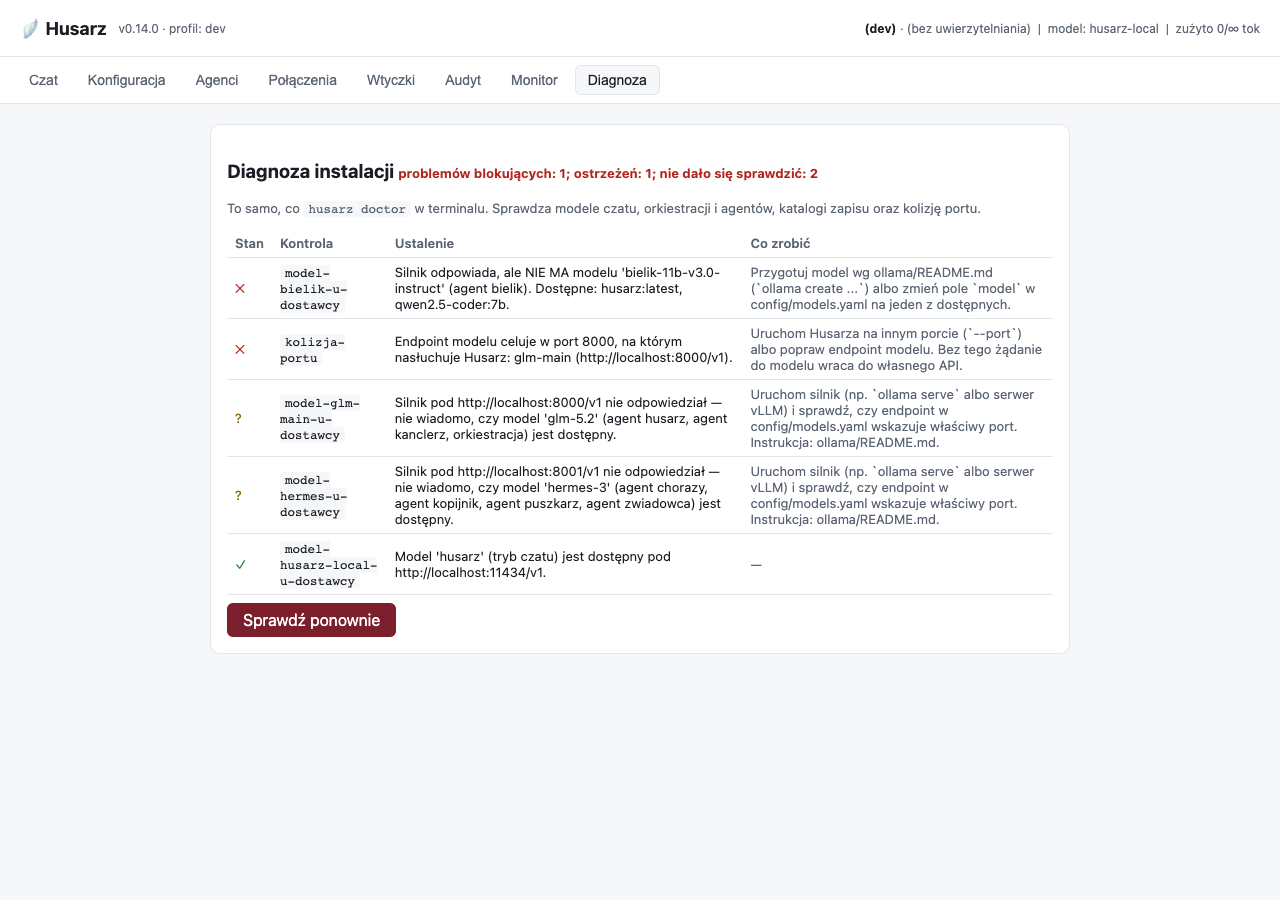
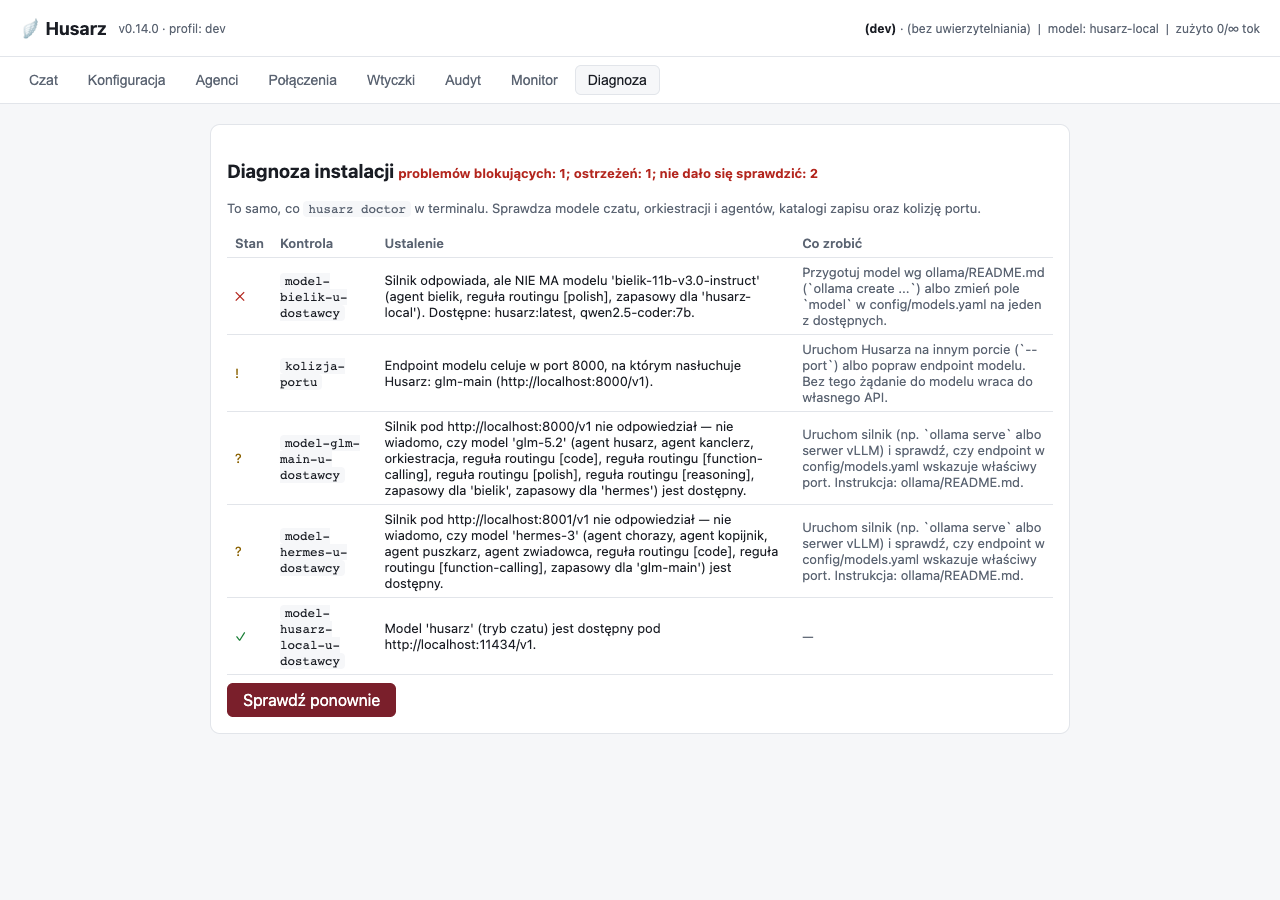
fix(doctor): odróżnij problem blokujący od ostrzeżenia — w OBU nośnikach naraz
Diagnoza od dawna ZNAŁA różnicę (pole `waga`), ale jej nie pokazywała: terminal dawał
`[!!]` jednemu i drugiemu, konsola — to samo czerwone ✕. Dopóki ostrzeżenia były rzadkie,
uchodziło to płazem. Od czasu diagnozowania modeli zapasowych (niedziałający zapas to
ostrzeżenie, nie blokada) mieszana lista zdarza się regularnie, a wtedy jednakowy znacznik
działa odwrotnie do zamierzenia: gdy wszystko krzyczy tak samo głośno, nic nie jest pilne.
To wada, którą sam pogorszyłem poprzednim krokiem.

Terminal: `[ok]`, `[!!]` blokujący, `[! ]` ostrzeżenie, `[??]` nie wiadomo. Stała szerokość,
bo listę czyta się wzrokiem po lewej krawędzi. Legenda pojawia się TYLKO przy liście
zawierającej oba rodzaje — stała byłaby szumem przy każdym uruchomieniu (ma test w obie
strony).

Konsola: mapa znaków kluczowana na STANIE i WADZE, nie na samym stanie. Czerwone ✕ jest
teraz zarezerwowane dla problemu blokującego, ostrzeżenie dostaje bursztynowe `!`.
Klucz składany jest tylko dla stanu `problem`, więc dołożenie nowej wagi po stronie API
nie wymaga czterech nowych wpisów w konsoli.

Poprawka objęła oba nośniki NARAZ i ma test pilnujący, że odróżniają TE SAME przypadki.
To jest właściwy niezmiennik — nie same znaczki. Rozjazd w ocenie tej samej instalacji jest
groźniejszy niż jej wygląd, bo operator dostaje dwie odpowiedzi i nie wie, której wierzyć.

Przy okazji usunąłem wyjątek, który sam dopisałem do kontroli escapowania w konsoli:
[…]

Changed region(s): [[0.1562, 0.2489, 0.8125, 0.8089]]

diff --git a/src/husarz/api/static/console.html b/src/husarz/api/static/console.html
@@ -555,7 +555,22 @@
     // Panel WYŚWIETLA gotowe ustalenia; oceny nie liczy sam. Gdyby liczył, konsola
     // i `husarz doctor` mogłyby ocenić tę samą instalację inaczej, a operator nie
     // wiedziałby, któremu wierzyć. Liczniki też przychodzą z API, z tej samej listy.
-    const DOCTOR_ZNAKI = { ok: ["ok", "✓"], problem: ["err", "✕"], nieznany: ["warn", "?"] };
+    // Klucz to STAN + WAGA, nie sam stan. Wcześniej problem blokujący i ostrzeżenie miały
+    // identyczne czerwone ✕ — a od czasu diagnozowania modeli zapasowych (niedziałający zapas
+    // to ostrzeżenie, nie blokada) mieszana lista zdarza się regularnie. Gdy wszystko krzyczy
+    // tak samo głośno, nic nie jest pilne. Odpowiednik w CLI: `znacznik()` w launcher/doctor.py
+    // — oba nośniki MUSZĄ oceniać tak samo, inaczej rozjadą się na tej samej instalacji.
+    const DOCTOR_ZNAKI = {
+      "ok": ["ok", "✓"],
+      "problem/blokujaca": ["err", "✕"],
+      "problem/ostrzezenie": ["warn", "!"],
+      "problem/informacja": ["warn", "!"],
+      "nieznany": ["warn", "?"],
+    };
+
+    // Stan `ok` i `nieznany` nie zależą od wagi — dla nich klucz to sam stan. Dzięki temu
+    // dołożenie nowej wagi po stronie API nie wymaga tu czterech nowych wpisów.
+    const doctorKlucz = (f) => (f.state === "problem" ? `problem/${f.severity}` : f.state);
 
     async function loadDoctor() {
       $("doctor-out").textContent = "sprawdzam…";
@@ -588,8 +603,9 @@
           // wartością z odpowiedzi sięga też do prototypu, więc stan o nazwie
           // `constructor` zwróciłby funkcję i wywrócił destrukturyzację — cała tabela
           // znikłaby zamiast pokazać nieznany stan. Konsola nie ufa żadnemu wejściu.
-          const [klasa, znak] = Object.hasOwn(DOCTOR_ZNAKI, f.state)
-            ? DOCTOR_ZNAKI[f.state] : ["muted", "·"];
+          const klucz = doctorKlucz(f);
+          const [klasa, znak] = Object.hasOwn(DOCTOR_ZNAKI, klucz)
+            ? DOCTOR_ZNAKI[klucz] : ["muted", "·"];
           return `<tr><td class="${klasa}">${znak}</td><td><code>${esc(f.id)}</code></td>` +
                  `<td>${esc(f.description)}</td><td class="muted">${esc(f.remedy) || "—"}</td></tr>`;
         }).join("") + "</table>";

diff --git a/tests/unit/test_konsola_diagnoza.py b/tests/unit/test_konsola_diagnoza.py
@@ -103,9 +103,52 @@ def test_nieznany_stan_ma_wlasny_kolor() -> None:
     """NIEZNANY nie może dzielić koloru z OK ani z problemem — to trzeci stan."""
     assert "--warn:" in _ZRODLO
     assert ".warn { color: var(--warn); }" in _ZRODLO
-    assert 'nieznany: ["warn"' in _ZRODLO
+    assert '"nieznany": ["warn"' in _ZRODLO
 
 
 def test_indeksowanie_mapy_stanow_nie_siega_do_prototypu() -> None:
     """Stan o nazwie `constructor` wywróciłby destrukturyzację i usunął CAŁĄ tabelę."""
-    assert "Object.hasOwn(DOCTOR_ZNAKI, f.state)" in _ZRODLO
+    assert "Object.hasOwn(DOCTOR_ZNAKI, klucz)" in _ZRODLO
+
+
+def test_konsola_i_CLI_odrozniaja_TE_SAME_przypadki() -> None:
+    """Niezmiennik „jedno źródło prawdy" dotyczy także ODCZYTU, nie tylko liczb.
+
+    Gdyby konsola i `husarz doctor` grupowały ustalenia inaczej — np. terminal odróżniał
+    problem blokujący od ostrzeżenia, a tabela nie — operator dostałby dwie różne oceny tej
+    samej instalacji i nie wiedziałby, której wierzyć. To ten sam błąd, przed którym broni
+    liczenie podsumowania po stronie API, tylko przeniesiony o warstwę wyżej.
+
+    Sprawdzamy ROZRÓŻNIALNOŚĆ, nie identyczność znaków: terminal ma cztery znaki ASCII,
+    tabela — kolor i glif. Wspólne ma być to, KTÓRE przypadki wyglądają inaczej.
+    """
+    import re
+
+    from husarz.launcher.doctor import Stan, Ustalenie, Waga, znacznik
+
+    przypadki = {
+        "ok": Ustalenie(id="x", stan=Stan.OK, waga=Waga.INFORMACJA, opis="."),
+        "problem/blokujaca": Ustalenie(id="x", stan=Stan.PROBLEM, waga=Waga.BLOKUJACA, opis="."),
+        "problem/ostrzezenie": Ustalenie(
+            id="x", stan=Stan.PROBLEM, waga=Waga.OSTRZEZENIE, opis="."
+        ),
+        "nieznany": Ustalenie(id="x", stan=Stan.NIEZNANY, waga=Waga.BLOKUJACA, opis="."),
+    }
+
+    # Terminal: każdy z czterech przypadków ma WŁASNY znacznik.
+    znaczniki = {klucz: znacznik(u) for klucz, u in przypadki.items()}
+    assert len(set(znaczniki.values())) == 4, znaczniki
+
+    # Konsola: mapa musi mieć wpis dla każdego z tych kluczy, a blokujący nie może dzielić
+    # wyglądu z ostrzeżeniem (to jest cała treść tej poprawki).
+    mapa = re.search(r"const DOCTOR_ZNAKI = \{(.*?)\n    \};", _ZRODLO, re.S)
+    assert mapa, "nie znaleziono mapy znaków w konsoli"
+    tresc = mapa.group(1)
+    for klucz in przypadki:
+        assert f'"{klucz}"' in tresc, f"konsola nie zna przypadku {klucz}"
+    assert tresc.count('["err"') == 1, "kolor błędu ma być zarezerwowany dla problemu blokującego"
+
+
+def test_klucz_konsoli_laczy_stan_z_waga() -> None:
+    """Sam stan nie wystarczy — to była przyczyna nierozróżnialności."""
+    assert 'f.state === "problem" ? `problem/${f.severity}`' in _ZRODLO

diff --git a/src/husarz/launcher/doctor.py b/src/husarz/launcher/doctor.py
@@ -1045,6 +1045,31 @@ def zdiagnozuj(
     return sorted(ustalenia, key=lambda u: (kolejnosc[u.stan], waga_kolejnosc[u.waga], u.id))
 
 
+def znacznik(ustalenie: Ustalenie) -> str:
+    """Zwraca czteroznakowy znacznik ustalenia — zależny od stanu **i od wagi**.
+
+    Pierwsza wersja kluczowała wyłącznie na stanie, więc problem BLOKUJĄCY i zwykłe
+    ostrzeżenie dostawały identyczne ``[!!]``. Dopóki ostrzeżenia były rzadkie, uchodziło
+    to płazem; od czasu diagnozowania modeli zapasowych (niedziałający zapas to ostrzeżenie,
+    nie blokada) operator regularnie widzi listę, na której wszystko krzyczy tak samo głośno.
+    Skutek jest odwrotny do zamierzonego: gdy wszystko jest pilne, nic nie jest.
+
+    Znaczniki mają STAŁĄ szerokość, żeby kolumna identyfikatorów była wyrównana — listę
+    czyta się wzrokiem po lewej krawędzi.
+
+    Args:
+        ustalenie: Pojedyncze ustalenie diagnozy.
+
+    Returns:
+        ``[ok]`` / ``[!!]`` (blokujący) / ``[! ]`` (ostrzeżenie) / ``[??]`` (nie wiadomo).
+    """
+    if ustalenie.stan is Stan.OK:
+        return "[ok]"
+    if ustalenie.stan is Stan.NIEZNANY:
+        return "[??]"
+    return "[!!]" if ustalenie.waga is Waga.BLOKUJACA else "[! ]"
+
+
 def sformatuj(ustalenia: Sequence[Ustalenie]) -> list[str]:
     """Zamienia ustalenia na linie do wypisania w terminalu.
 
@@ -1054,10 +1079,9 @@ def sformatuj(ustalenia: Sequence[Ustalenie]) -> list[str]:
     Returns:
         Linie gotowe do wypisania (bez znaku nowej linii).
     """
-    znaki = {Stan.OK: "[ok]", Stan.PROBLEM: "[!!]", Stan.NIEZNANY: "[??]"}
     linie: list[str] = []
     for u in ustalenia:
-        linie.append(f"{znaki[u.stan]} {u.id}: {u.opis}")
+        linie.append(f"{znacznik(u)} {u.id}: {u.opis}")
         if u.naprawa:
             linie.append(f"     → {u.naprawa}")
     # Podsumowanie MUSI zgadzać się z listą powyżej. Pierwsza wersja liczyła wyłącznie
@@ -1082,6 +1106,8 @@ def sformatuj(ustalenia: Sequence[Ustalenie]) -> list[str]:
         linie.append("\nWszystkie kontrole przeszły.")
     else:
         linie.append("\nPodsumowanie — " + "; ".join(czesci) + ".")
+    if blokujace and inne_problemy:
+        linie.append("Znaczniki: [!!] blokuje działanie, [! ] ostrzeżenie, [??] nie wiadomo.")
     return linie
 
 

diff --git a/tests/unit/test_doctor_fallback.py b/tests/unit/test_doctor_fallback.py
@@ -199,3 +199,46 @@ def test_agent_ustawiony_na_auto_nie_tworzy_ustalenia_o_modelu_auto(make_config)
     ustalenia = zdiagnozuj(config, sonda=_Sonda(["husarz"]))
 
     assert not [u for u in ustalenia if u.id.startswith("model-auto")]
+
+
+def test_znacznik_odroznia_blokujacy_od_ostrzezenia(make_config) -> None:
+    """Terminal ma pokazywać RÓŻNICĘ, którą diagnoza już zna.
+
+    Do tej pory `sformatuj` kluczował wyłącznie na stanie, więc problem blokujący
+    i ostrzeżenie dostawały identyczne `[!!]`. Dopóki ostrzeżenia były rzadkie, uchodziło
+    to płazem; od czasu diagnozowania modeli zapasowych mieszana lista zdarza się
+    regularnie — a gdy wszystko krzyczy tak samo głośno, nic nie jest pilne.
+    """
+    from husarz.launcher.doctor import sformatuj, znacznik
+
+    rejestr = _rejestr()
+    rejestr["zapasowy"]["fallback"] = []
+    config = make_config(registry=rejestr, default="glowny", chat="glowny")
+
+    ustalenia = zdiagnozuj(config, sonda=_Sonda(["nie-ma-zadnego"]))
+
+    glowny = _ustalenie(ustalenia, "model-glowny-u-dostawcy")
+    zapasowy = _ustalenie(ustalenia, "model-zapasowy-u-dostawcy")
+    assert glowny.waga is Waga.BLOKUJACA and zapasowy.waga is Waga.OSTRZEZENIE, "założenie testu"
+
+    assert znacznik(glowny) == "[!!]"
+    assert znacznik(zapasowy) == "[! ]"
+    assert znacznik(glowny) != znacznik(zapasowy)
+
+    # Znaczniki mają stałą szerokość — listę czyta się wzrokiem po lewej krawędzi.
+    assert len({len(znacznik(u)) for u in ustalenia}) == 1
+
+    # Legenda pojawia się TYLKO wtedy, gdy jest co odróżniać.
+    tekst = "\n".join(sformatuj(ustalenia))
+    assert "Znaczniki:" in tekst
+
+
+def test_legenda_NIE_zasmieca_wyjscia_gdy_nie_ma_czego_odrozniac(make_config) -> None:
+    """Nośność powyższego: stała legenda przy każdym uruchomieniu byłaby szumem."""
+    from husarz.launcher.doctor import sformatuj
+
+    config = make_config(registry=_rejestr(), default="glowny", chat="glowny")
+
+    tekst = "\n".join(sformatuj(zdiagnozuj(config, sonda=_Sonda(["husarz"]))))
+
+    assert "Znaczniki:" not in tekst

diff --git a/docs/LAUNCHER.md b/docs/LAUNCHER.md
@@ -66,9 +66,21 @@ Kod wyjścia **1** przy problemie blokującym, więc komenda nadaje się do skry
 Ta sama diagnoza pojawia się przy `husarz up` — pokazywane są tylko ustalenia wymagające
 uwagi, żeby normalny start nie tonął w komunikatach.
 
-### Trzy stany, nie dwa
+### Trzy stany, nie dwa — i dwa stopnie problemu
 
-Kontrola kończy się jako `[ok]`, `[!!]` (problem) albo **`[??]` (nieznany)**. Ostatni jest
+| Znacznik | Znaczenie |
+|---|---|
+| `[ok]` | w porządku |
+| `[!!]` | problem **blokujący** — bez naprawy funkcja nie zadziała, kod wyjścia 1 |
+| `[! ]` | ostrzeżenie — działa, ale nie tak, jak operator zapewne oczekuje |
+| `[??]` | **nie dało się sprawdzić** — to nie to samo co „OK" |
+
+Rozróżnienie `[!!]` od `[! ]` nie jest kosmetyką. Wcześniej oba dostawały ten sam znacznik,
+a od czasu diagnozowania modeli zapasowych (niedziałający zapas to ostrzeżenie, nie blokada)
+mieszana lista zdarza się regularnie. Gdy wszystko krzyczy tak samo głośno, nic nie jest pilne.
+Legenda pojawia się w wyjściu tylko wtedy, gdy na liście są OBA rodzaje — inaczej byłaby szumem.
+
+Kontrola kończy się jako `[ok]`, `[!!]`/`[! ]` (problem) albo **`[??]` (nieznany)**. Ostatni jest
 osobny celowo: projekt ma twardą zasadę, że pomiar NIE MOŻE zaokrąglać „nie dało się
 sprawdzić" do „w porządku". Diagnoza, która przy niedziałającym silniku mówi „model OK",
 jest gorsza niż brak diagnozy — operator przestaje szukać.
@@ -127,7 +139,7 @@ o ratunku. Łańcuch przechodzimy tak samo jak router: rekurencyjnie (zapas zapa
 osiągalny), z ochroną przed cyklem, i tylko gdy `routing.fallbacks_enabled`.
 
 ```
-[!!] model-zapasowy-u-dostawcy: Silnik odpowiada, ale NIE MA modelu 'nie-ma-takiego'
+[! ] model-zapasowy-u-dostawcy: Silnik odpowiada, ale NIE MA modelu 'nie-ma-takiego'
      (zapasowy dla 'glowny'). Dostępne: husarz:latest, qwen2.5-coder:7b.
 [??] model-ostatnia-deska-u-dostawcy: Silnik pod http://localhost:9999/v1 nie odpowiedział
      — nie wiadomo, czy model 'cokolwiek' (zapasowy dla 'zapasowy') jest dostępny.

diff --git a/CHANGELOG.md b/CHANGELOG.md
@@ -5,6 +5,23 @@ wersjonowanie: [SemVer](https://semver.org/lang/pl/).
 
 ## [Unreleased]
 
+### Poprawione (diagnoza odróżnia problem blokujący od ostrzeżenia — w OBU nośnikach)
+
+- **Terminal:** `[!!]` blokujący, **`[! ]` ostrzeżenie**, `[??]` nie wiadomo, `[ok]` w porządku.
+  Dotąd oba rodzaje problemu miały identyczne `[!!]`. Dopóki ostrzeżenia były rzadkie,
+  uchodziło to płazem; od czasu diagnozowania modeli zapasowych (niedziałający zapas to
+  ostrzeżenie, nie blokada) mieszana lista zdarza się regularnie — a gdy wszystko krzyczy
+  tak samo głośno, nic nie jest pilne. Znaczniki mają stałą szerokość, żeby kolumna
+  identyfikatorów była wyrównana.
+- **Konsola:** mapa znaków kluczowana na STANIE **i WADZE**, nie na samym stanie. Kolor
+  błędu (czerwony ✕) jest teraz zarezerwowany dla problemu blokującego; ostrzeżenie dostaje
+  bursztynowy `!`.
+- **Legenda tylko wtedy, gdy jest co odróżniać** — przy liście zawierającej oba rodzaje.
+  Stała legenda przy każdym uruchomieniu byłaby szumem.
+- Poprawka objęła oba nośniki NARAZ i ma test pilnujący, że **odróżniają te same przypadki**:
+  rozjazd w ocenie tej samej instalacji jest tu groźniejszy niż sam wygląd. Zrzut ekranu
+  w dokumentacji odświeżony.
+
 ### Usunięte / poprawione (dwie nieprawdy w dostarczonej konfiguracji)
 
 - **`models.registry[...].weights_path` USUNIĘTE.** Pole żyło w schemacie i **nic go nie

diff --git a/ROADMAP.md b/ROADMAP.md
@@ -347,10 +347,9 @@ Legenda: ✅ ukończone · 🚧 w toku · ⬜ zaplanowane.
     systemy, ścieżki instalacyjne, czasem uprawnienia administratora. Osobny obszar ryzyka,
     wymaga własnego ADR-a i własnego przeglądu; dziś instalacja silnika należy do menedżera
     pakietów, a diagnoza podaje `ollama serve` z odnośnikiem.
-- ⬜ **Waga ustalenia niewidoczna w tabeli konsoli i w wyjściu CLI** — problem blokujący
-  i ostrzeżenie mają ten sam znak (✕ / `[!!]`); rozróżnienie niesie dopiero nagłówek
-  z licznikami. Pole `severity` jest już w odpowiedzi API, więc zmiana wymaga poprawienia
-  OBU nośników naraz — inaczej rozjadą się w ocenie tej samej instalacji.
+- ✅ **Waga ustalenia widoczna w obu nośnikach** — terminal: `[!!]` blokujący, `[! ]`
+  ostrzeżenie; konsola: czerwone ✕ zarezerwowane dla blokującego, bursztynowe `!` dla
+  ostrzeżenia. Poprawione NARAZ, z testem pilnującym, że oba odróżniają te same przypadki.
 - ⬜ **Rola „NOC" (podgląd + diagnoza) do rozważenia** — `viewer` świadomie nie dostał
   `diagnostics:read`, bo podgląd nie powinien wysyłać pakietów. Gdyby powstał scenariusz
   monitoringu bez uprawnień operatora, właściwą odpowiedzią jest osobna rola, nie

diff --git a/docs/index.md b/docs/index.md
@@ -51,8 +51,10 @@ Zakładka **Monitor** — liczniki wywołań i obowiązujące limity (`max_token
 
 /// caption
 Zakładka **Diagnoza** — te same ustalenia, co `husarz doctor` w terminalu, z instrukcją naprawy
-przy każdym. Widoczne trzy stany: problem (✕), **nie dało się sprawdzić** (?) i OK (✓) — stan
-nieznany jest osobny celowo, bo pomiar nie może zaokrąglać „nie wiem" do „w porządku".
+przy każdym. Widoczne cztery oznaczenia: problem blokujący (✕), ostrzeżenie (!),
+**nie dało się sprawdzić** (?) i OK (✓). Stan nieznany jest osobny celowo, bo pomiar nie może
+zaokrąglać „nie wiem" do „w porządku"; ostrzeżenie jest osobne, bo gdy wszystko krzyczy tak
+samo głośno, nic nie jest pilne.
 Zrzut z konfiguracji repo: czat działa na lokalnej Ollamie, a orkiestracja i agenci wskazują
 serwery vLLM, których na tej maszynie nikt nie uruchomił
 (zob. [LAUNCHER](LAUNCHER.md#to-samo-w-konsoli-www-panel-diagnoza)).
